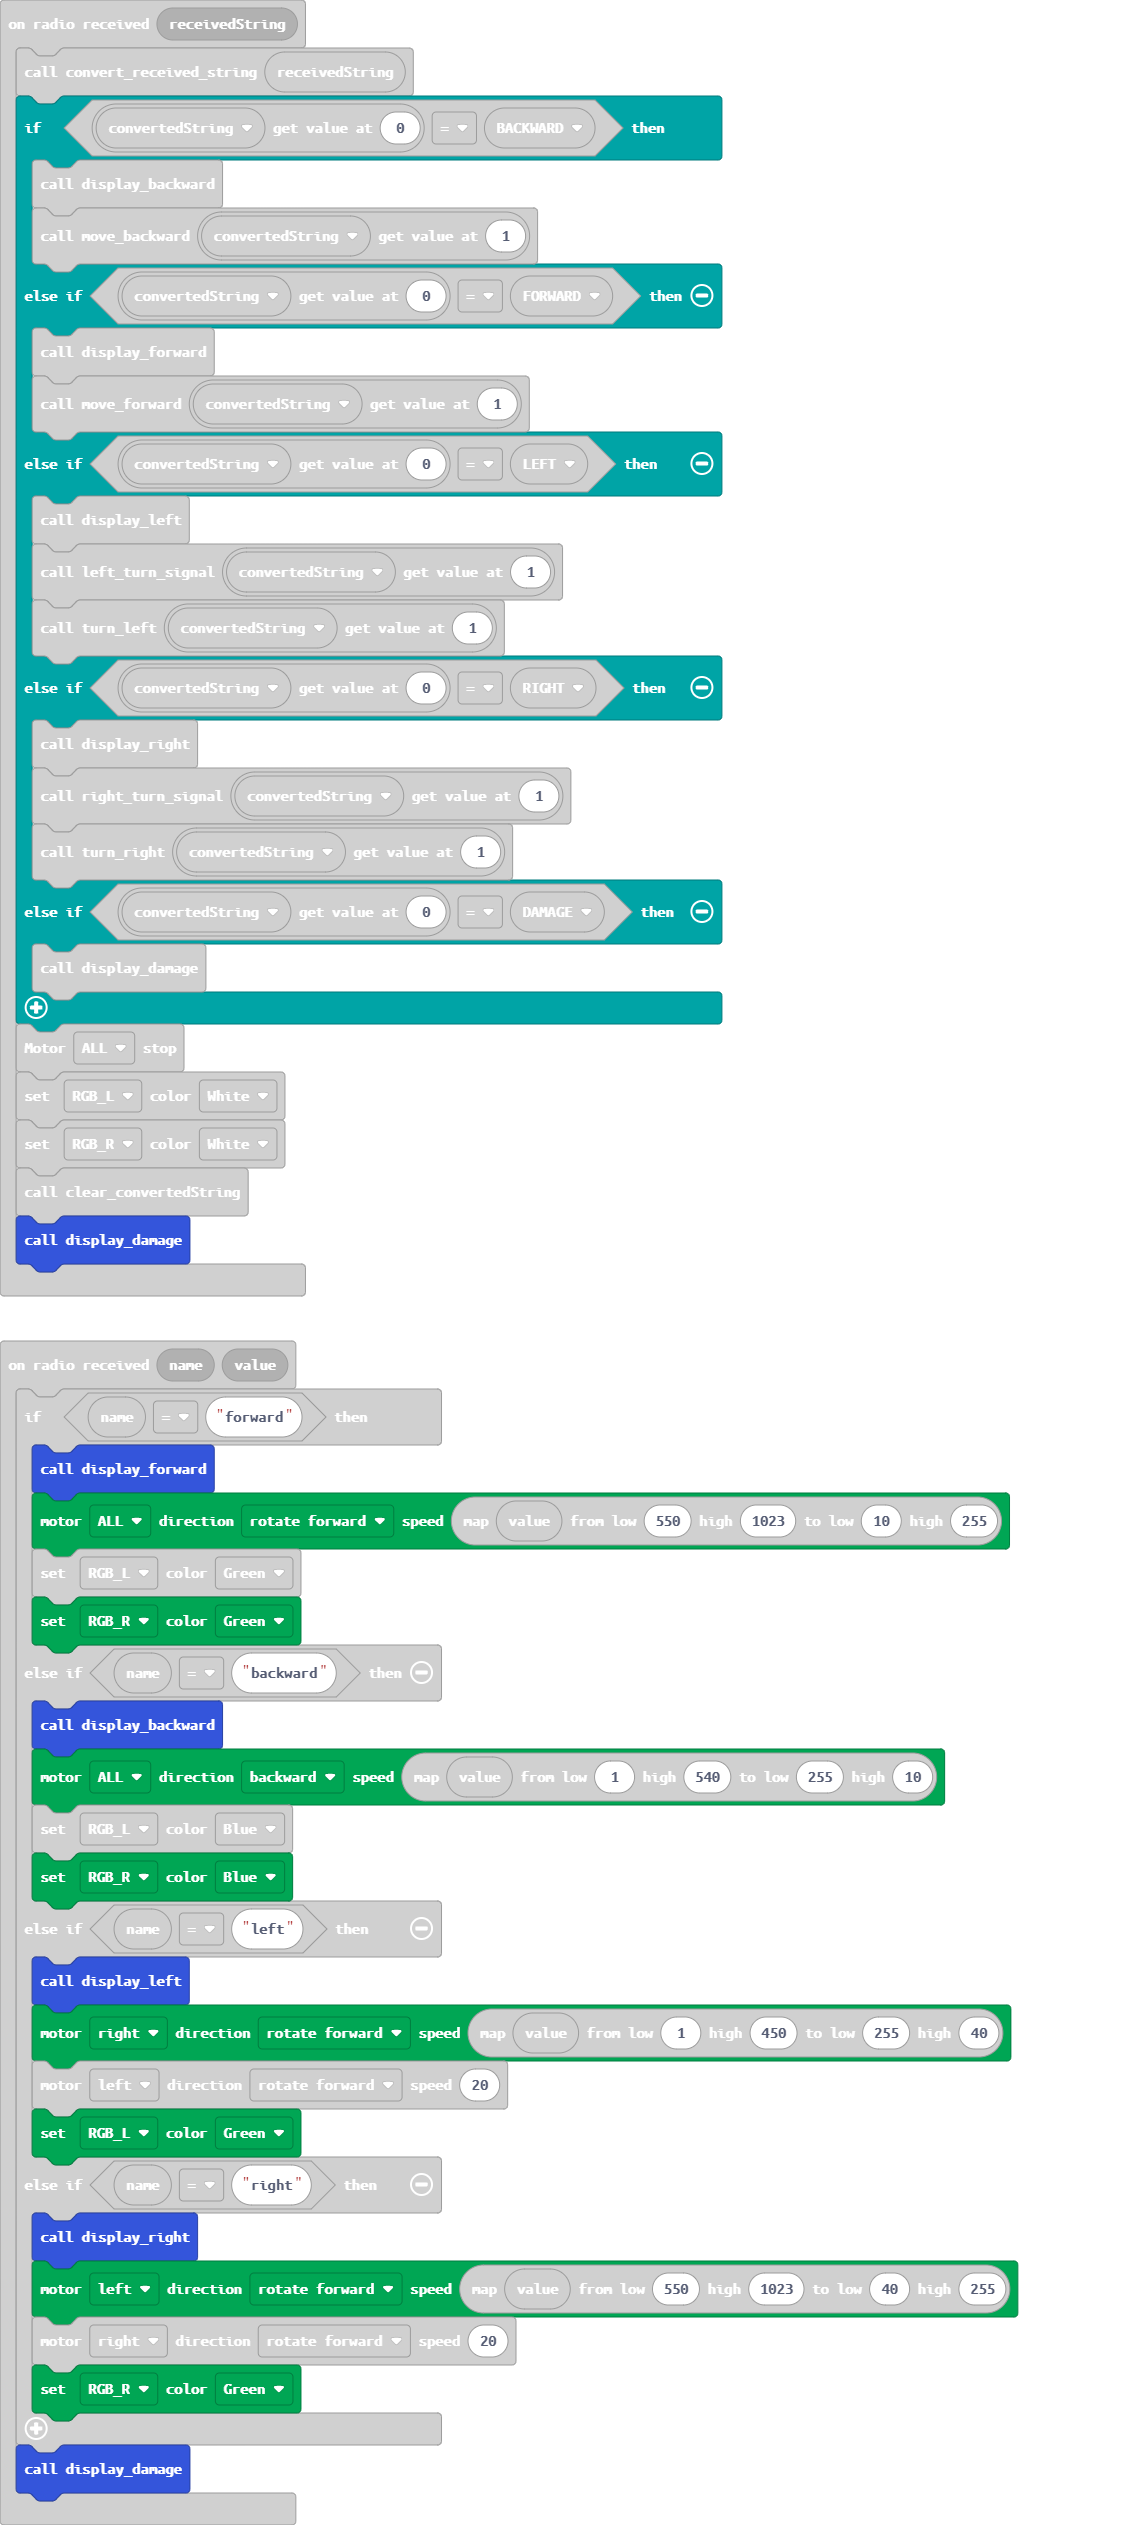
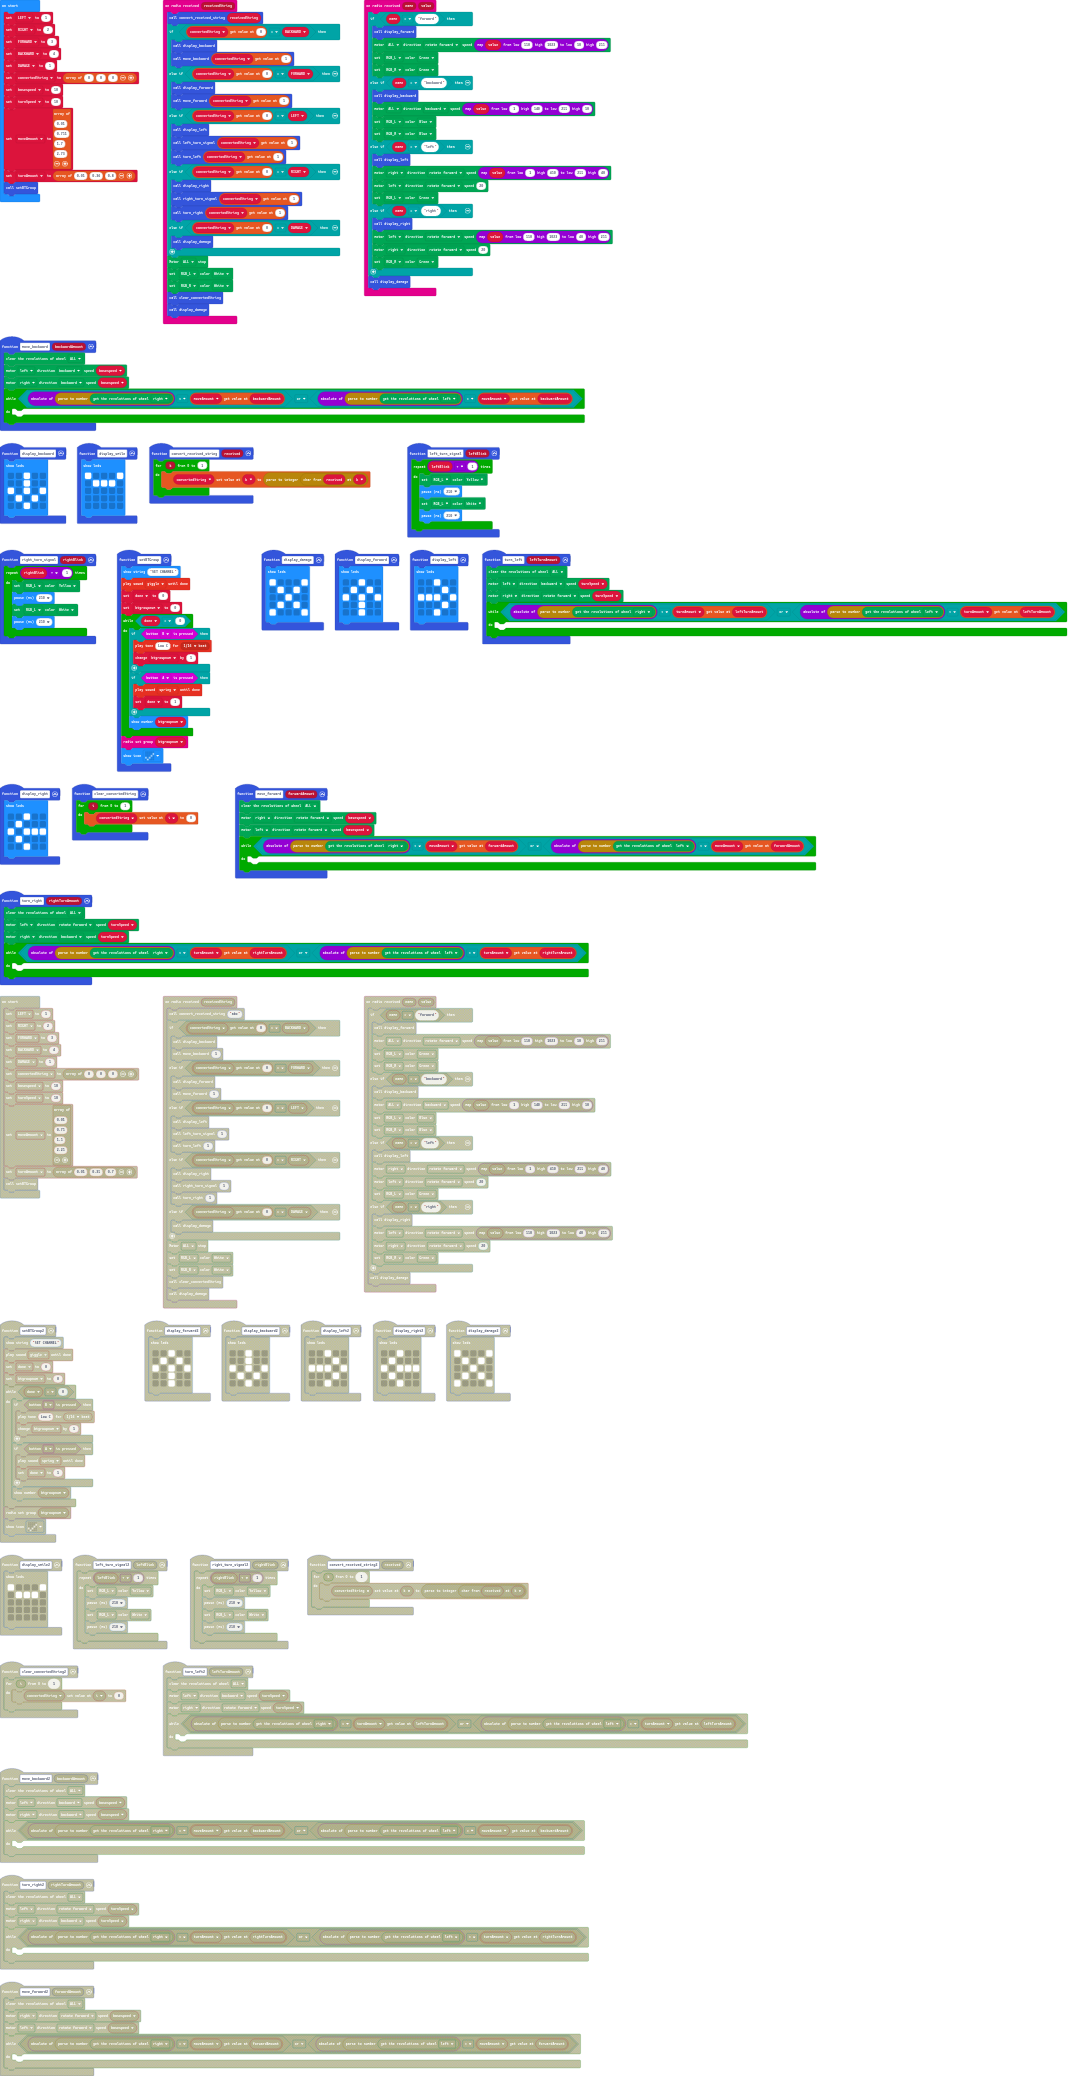
update distance values

diff --git a/main.ts b/main.ts
@@ -200,9 +200,9 @@ basespeed = 50
 turnSpeed = 50
 moveAmount = [
 0.01,
-0.75,
-1.5,
-2.25
+0.751,
+1.7,
+2.73
 ]
-turnAmount = [0.01, 0.35, 0.7]
+turnAmount = [0.01, 0.36, 0.8]
 setBTGroup()
